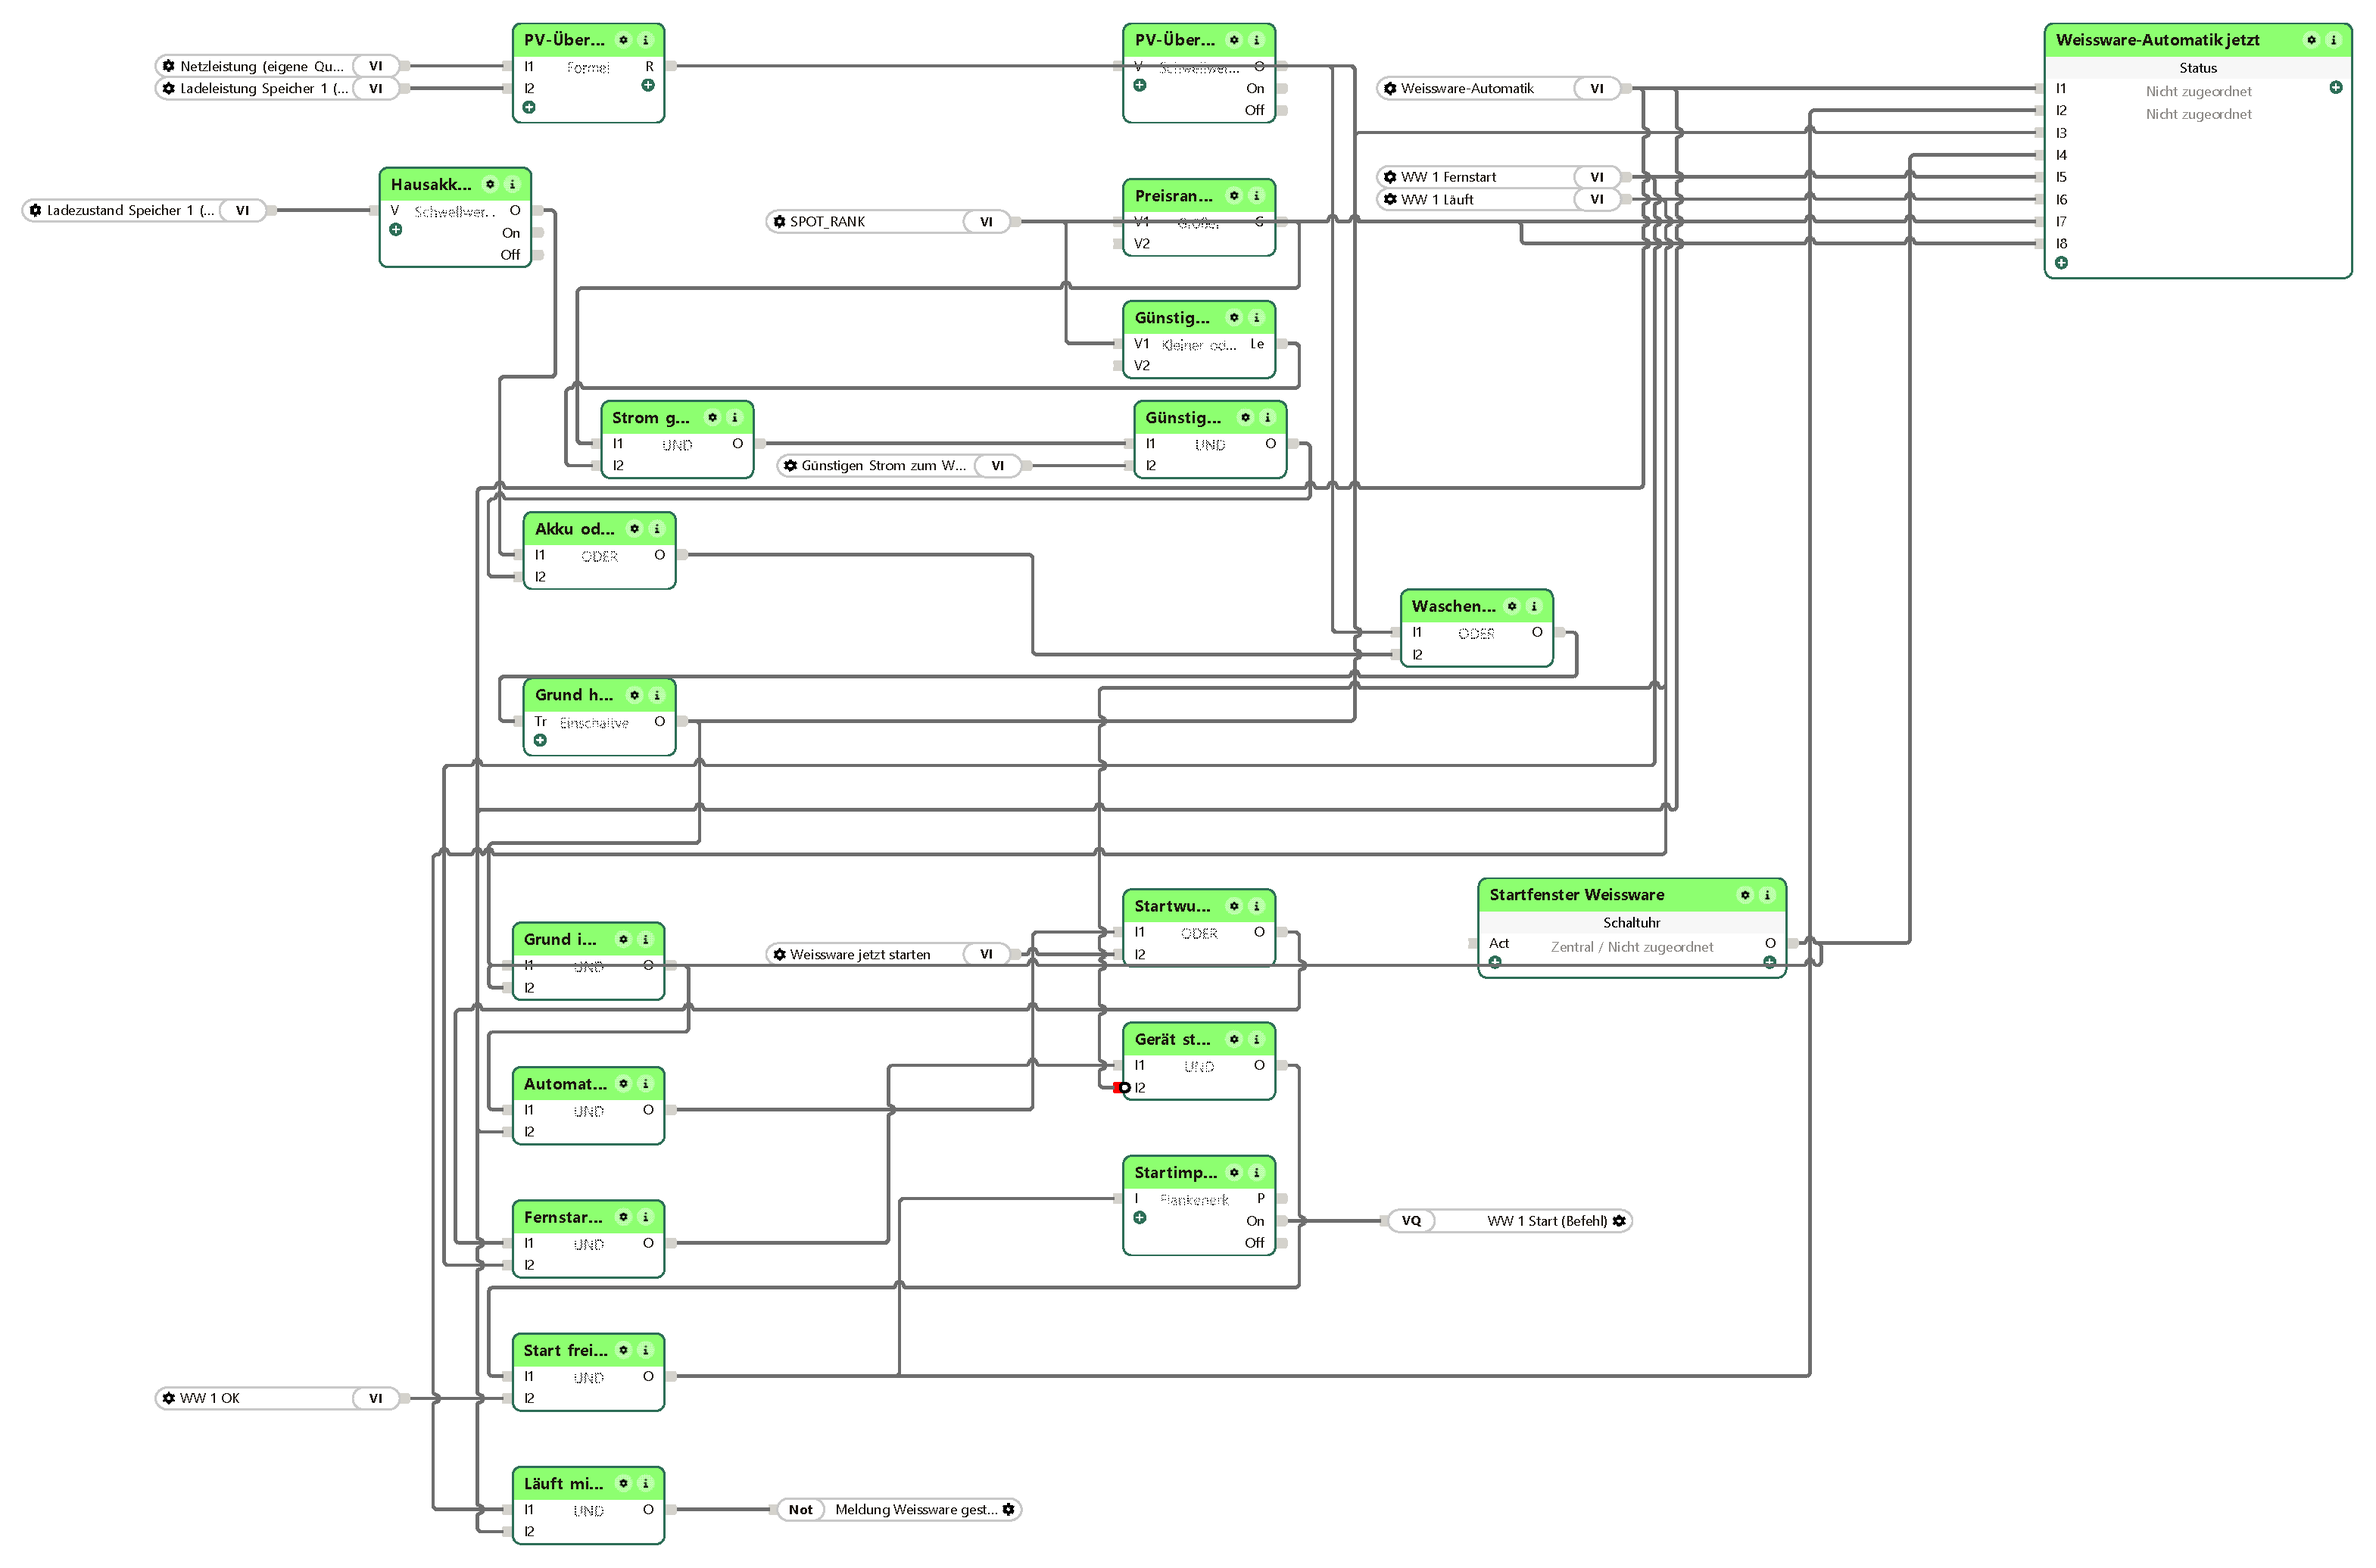
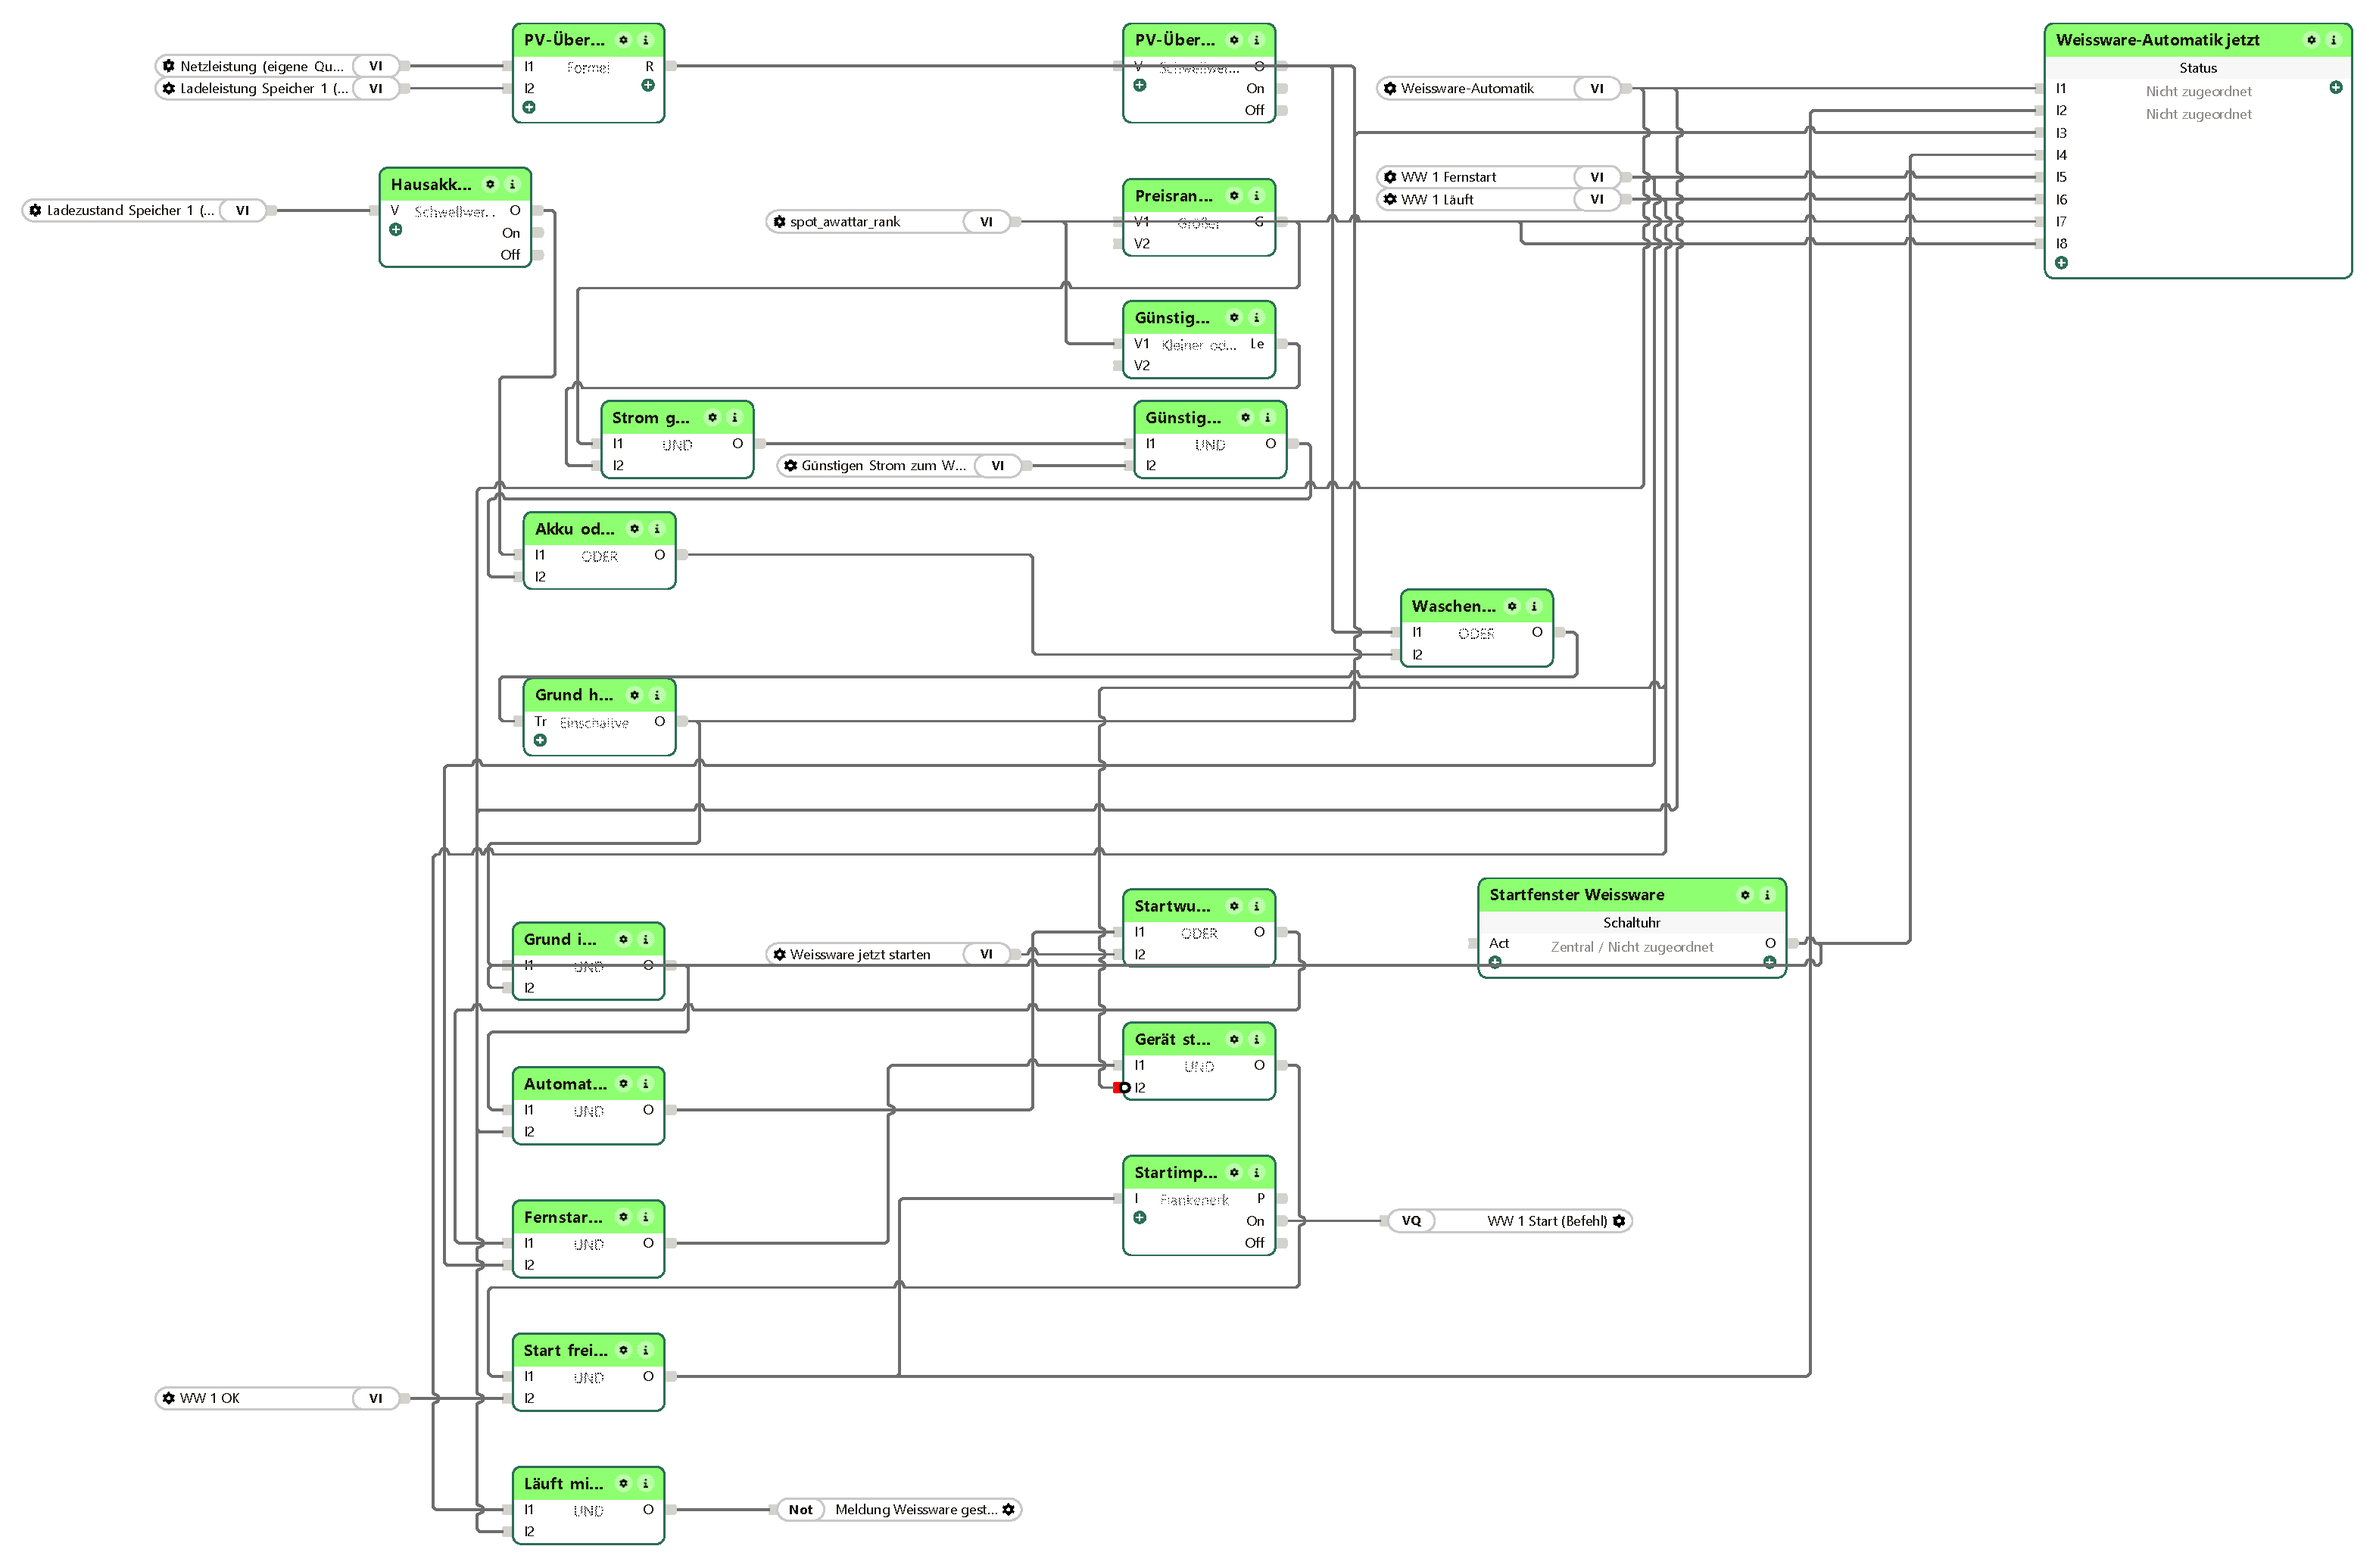
Weissware 0.9.43: Weissware 0.9.43: Spotpreis-Rang als Virtueller Eingang (MQTT, aWATTar 1.2.38)
Textnachzug zum Musterprojekt, Reiter **Einbindung in Loxone**, Seite „Weissware PV-Start“: Spotpreis aWATTar liefert die
Werte jetzt über MQTT. Nr. 10 ist deshalb ein Virtueller Eingang `spot_awattar_rank` (bisher Virtueller HTTP-Eingang-Befehl
`SPOT_RANK` aus der Vorlage „Spotpreis aWATTar“): Virtuellen Eingang mit dem Namen aus der Namenstabelle im Reiter ‚Einbindung in Loxone‘ des Plugins Spotpreis aWATTar (ab 1.2.38) anlegen.
Kasten und Bild der Seite sind nachgezogen. Das Plugin selbst und seine Vorlagen sind unverändert.

diff --git a/README.md b/README.md
@@ -10,12 +10,19 @@ Miele-Geschirrspüler danach genauso aus wie eine Bosch-Waschmaschine.
 | **Miele** | Miele@home (3rd Party API) | OAuth2 Authorization Code, Code von Hand |
 | **SmartThings** | Samsung | Personal Access Token — **siehe Vorbehalt** |
 
-> **Fassung 0.9.42 — ungeprüft.** Das Plugin wurde ohne Entwicklerkonten und
+> **Fassung 0.9.43 — ungeprüft.** Das Plugin wurde ohne Entwicklerkonten und
 > ohne Geräte gebaut. Endpunkte und Datenformen stammen aus den
 > Entwicklerdokumentationen, nicht aus einer Messung. Geprüft ist alles übrige:
 > Oberfläche, Endpunkt, Absicherung, Warteschlange, Sprachdateien und die
 > Zuordnung selbst — letztere gegen nachgebaute Antworten in der dokumentierten
 > Form. Schreibende Befehle sind ab Werk gesperrt.
+
+## Neu in 0.9.43
+
+Textnachzug zum Musterprojekt, Reiter **Einbindung in Loxone**, Seite „Weissware PV-Start“: Spotpreis aWATTar liefert die
+Werte jetzt über MQTT. Nr. 10 ist deshalb ein Virtueller Eingang `spot_awattar_rank` (bisher Virtueller HTTP-Eingang-Befehl
+`SPOT_RANK` aus der Vorlage „Spotpreis aWATTar“): Virtuellen Eingang mit dem Namen aus der Namenstabelle im Reiter ‚Einbindung in Loxone‘ des Plugins Spotpreis aWATTar (ab 1.2.38) anlegen.
+Kasten und Bild der Seite sind nachgezogen. Das Plugin selbst und seine Vorlagen sind unverändert.
 
 ## Neu in 0.9.42
 
